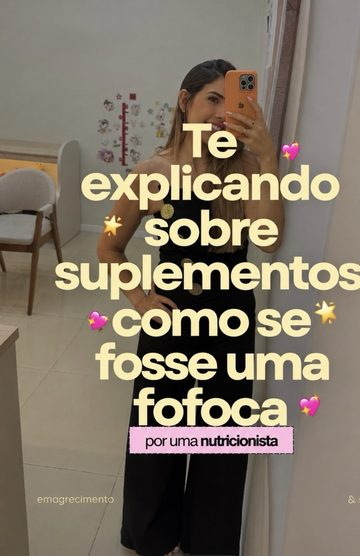
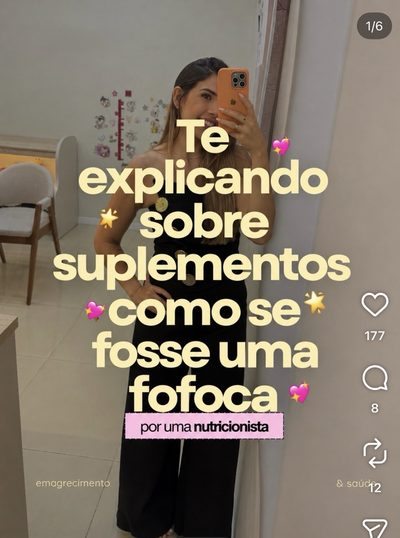
Recrop reference screenshots at full width so text is not cut
Claude-Session: https://claude.ai/code/session_01WBcQKQPq3EbzfzQ4LU6YT1

diff --git a/semanas/2026-s41.html b/semanas/2026-s41.html
@@ -7,7 +7,7 @@
 :root{
   --bg:#f2f6f1; --surface:#ffffff; --ink:#15281e; --muted:#5a6e61; --line:#d8e4da;
   --forest:#1f4d36; --leaf:#2f7a4f; --sage:#8fb59a; --mint:#e2efe5; --linen:#ece2d4;
-  --band:#1f4d36; --band-ink:#f2f6f1; --row-alt:#f7faf6; --gold:#8a6a12; --gold-soft:#f6edd2;
+  --band:#1f4d36; --band-ink:#f2f6f1; --row-alt:#f7faf6; --gold:#8a6a12; --gold-soft:#f6edd2; --shot-bg:#14211a;
   --f-display:"Bricolage Grotesque","Arial Black",system-ui,sans-serif;
   --f-body:"Figtree",system-ui,-apple-system,"Segoe UI",sans-serif;
 }
@@ -52,7 +52,7 @@ thead th{background:var(--band);color:var(--band-ink);font-size:12px;font-weight
 tbody tr{border-top:1px solid var(--line)}
 tbody tr:nth-child(even){background:var(--row-alt)}
 td{padding:18px;vertical-align:top}
-.c-fmt{width:26%}.c-ref{width:168px}.c-ig{width:200px}
+.c-fmt{width:26%}.c-ref{width:192px}.c-ig{width:200px}
 .n{font-size:12px;font-weight:700;color:var(--sage);font-variant-numeric:tabular-nums}
 .name{font-family:var(--f-display);font-weight:600;font-size:18px;line-height:1.15;margin:2px 0 4px;color:var(--forest);text-wrap:balance}
 .pills{display:flex;flex-wrap:wrap;gap:5px;margin-top:10px}
@@ -62,8 +62,8 @@ td{padding:18px;vertical-align:top}
 .meta{font-size:12.5px;color:var(--muted);margin-top:10px;display:grid;gap:2px}
 .meta b{color:var(--ink);font-weight:600}
 
-.shot{display:block;width:132px;max-width:100%;border-radius:14px;overflow:hidden;box-shadow:0 8px 20px -12px rgba(20,50,30,.7);background:var(--mint)}
-.shot img{display:block;width:100%;aspect-ratio:360/545;object-fit:cover;object-position:center}
+.shot{display:block;width:156px;max-width:100%;border-radius:14px;overflow:hidden;box-shadow:0 8px 20px -12px rgba(20,50,30,.7);background:var(--mint)}
+.shot img{display:block;width:100%;aspect-ratio:3/4;object-fit:contain;object-position:center;background:var(--shot-bg)}
 .cap{font-size:11px;color:var(--muted);margin-top:6px}
 
 .resumo{margin:0 0 10px}

diff --git a/semanas/_modelo.html b/semanas/_modelo.html
@@ -7,7 +7,7 @@
 :root{
   --bg:#f2f6f1; --surface:#ffffff; --ink:#15281e; --muted:#5a6e61; --line:#d8e4da;
   --forest:#1f4d36; --leaf:#2f7a4f; --sage:#8fb59a; --mint:#e2efe5; --linen:#ece2d4;
-  --band:#1f4d36; --band-ink:#f2f6f1; --row-alt:#f7faf6; --gold:#8a6a12; --gold-soft:#f6edd2;
+  --band:#1f4d36; --band-ink:#f2f6f1; --row-alt:#f7faf6; --gold:#8a6a12; --gold-soft:#f6edd2; --shot-bg:#14211a;
   --f-display:"Bricolage Grotesque","Arial Black",system-ui,sans-serif;
   --f-body:"Figtree",system-ui,-apple-system,"Segoe UI",sans-serif;
 }
@@ -52,7 +52,7 @@ thead th{background:var(--band);color:var(--band-ink);font-size:12px;font-weight
 tbody tr{border-top:1px solid var(--line)}
 tbody tr:nth-child(even){background:var(--row-alt)}
 td{padding:18px;vertical-align:top}
-.c-fmt{width:26%}.c-ref{width:168px}.c-ig{width:200px}
+.c-fmt{width:26%}.c-ref{width:192px}.c-ig{width:200px}
 .n{font-size:12px;font-weight:700;color:var(--sage);font-variant-numeric:tabular-nums}
 .name{font-family:var(--f-display);font-weight:600;font-size:18px;line-height:1.15;margin:2px 0 4px;color:var(--forest);text-wrap:balance}
 .pills{display:flex;flex-wrap:wrap;gap:5px;margin-top:10px}
@@ -62,8 +62,8 @@ td{padding:18px;vertical-align:top}
 .meta{font-size:12.5px;color:var(--muted);margin-top:10px;display:grid;gap:2px}
 .meta b{color:var(--ink);font-weight:600}
 
-.shot{display:block;width:132px;max-width:100%;border-radius:14px;overflow:hidden;box-shadow:0 8px 20px -12px rgba(20,50,30,.7);background:var(--mint)}
-.shot img{display:block;width:100%;aspect-ratio:360/545;object-fit:cover;object-position:center}
+.shot{display:block;width:156px;max-width:100%;border-radius:14px;overflow:hidden;box-shadow:0 8px 20px -12px rgba(20,50,30,.7);background:var(--mint)}
+.shot img{display:block;width:100%;aspect-ratio:3/4;object-fit:contain;object-position:center;background:var(--shot-bg)}
 .cap{font-size:11px;color:var(--muted);margin-top:6px}
 
 .resumo{margin:0 0 10px}
